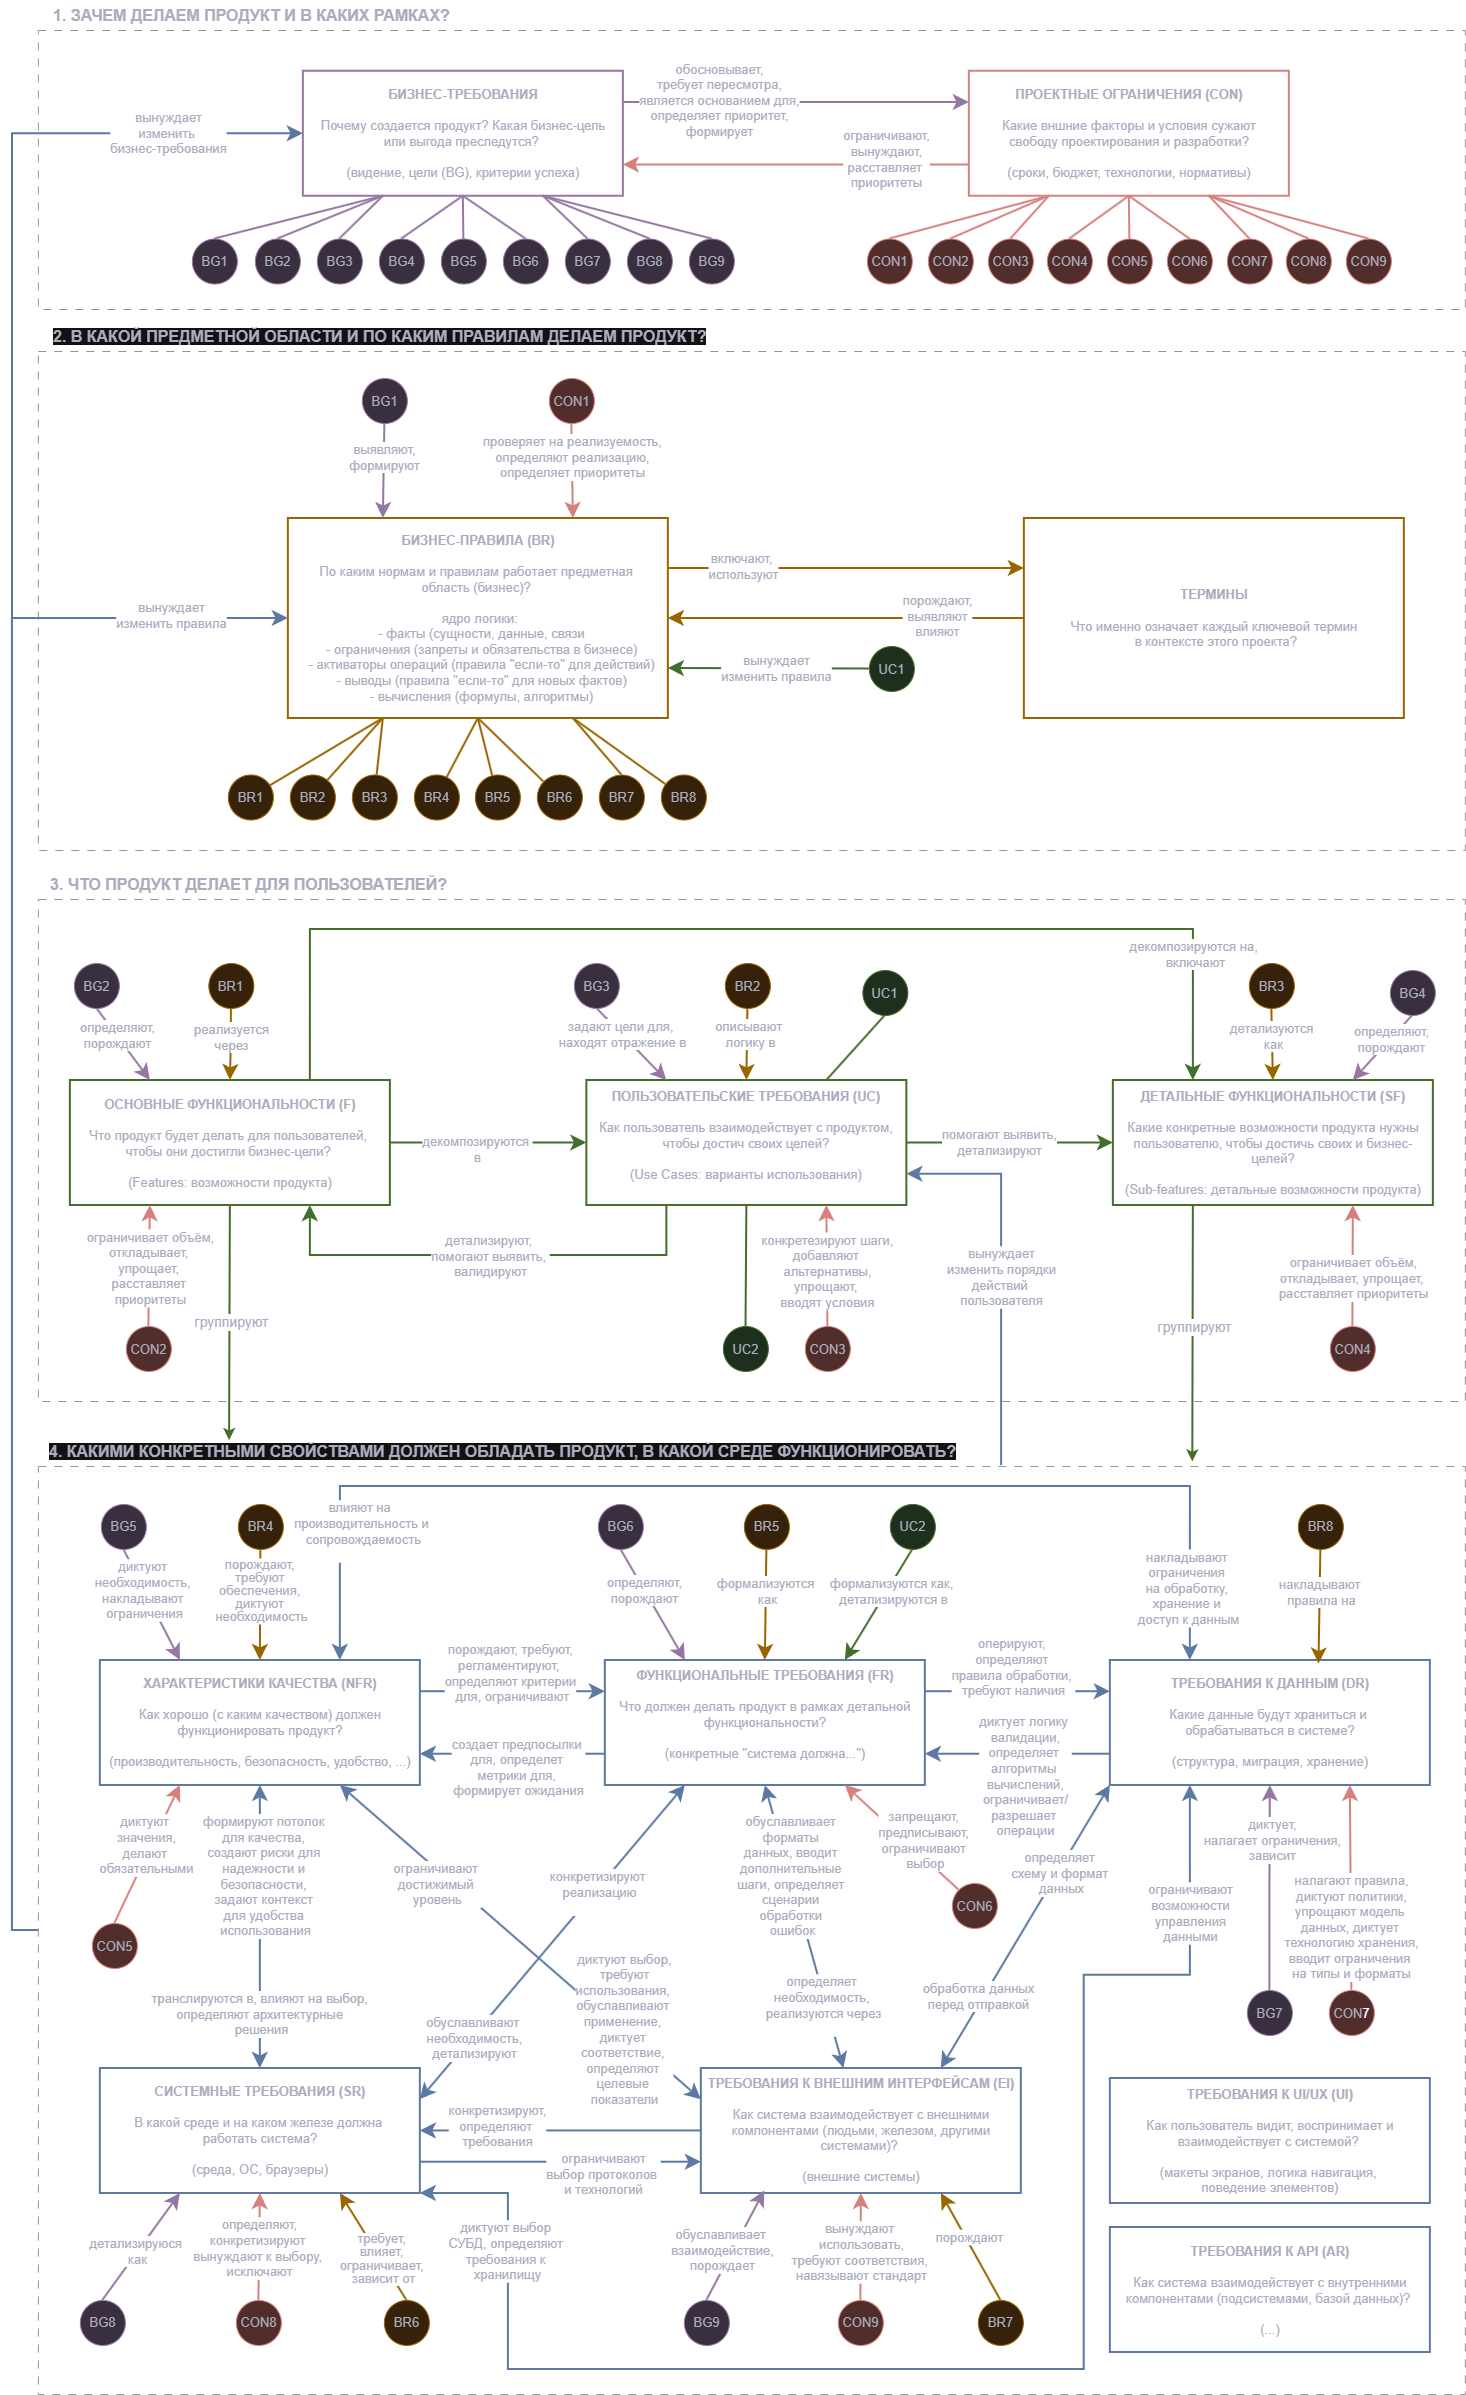
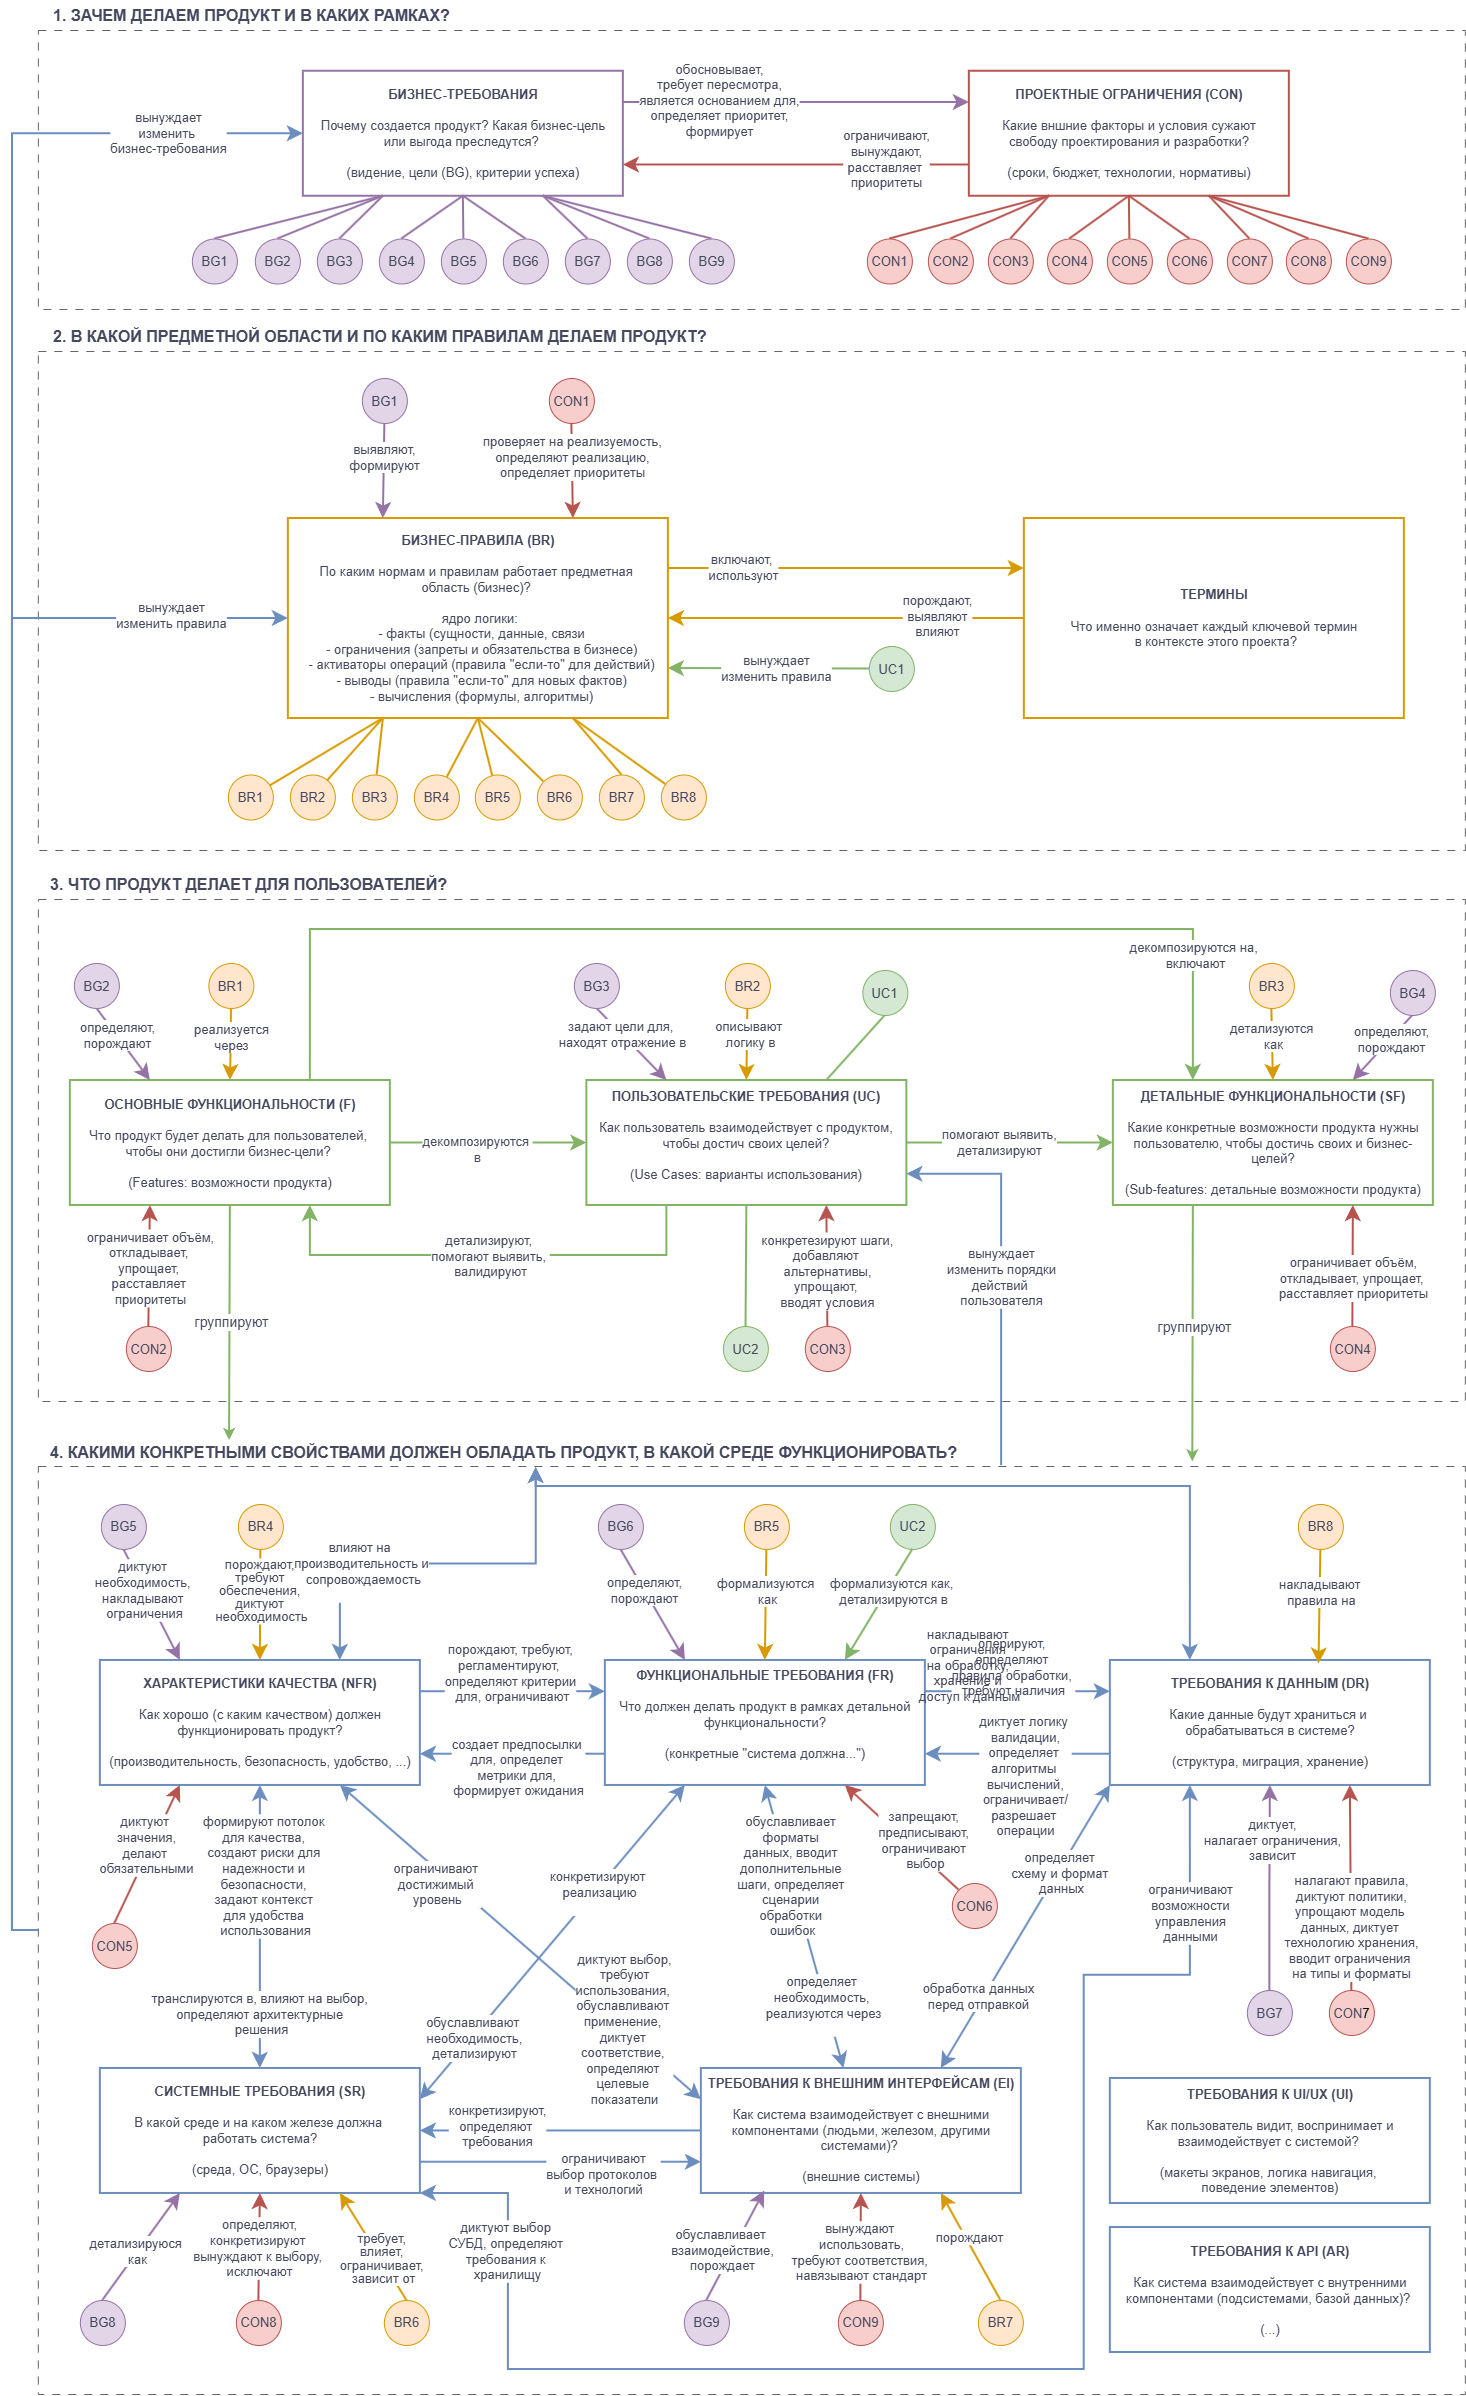
Доработка

diff --git a/docs/methodology/relationships-requirements.md b/docs/methodology/relationships-requirements.md
@@ -1,5 +1,3 @@
 # Взаимосвязь требований к ПО {#relationships-requirements}
 
 ![alt text](<Схема требований к ПО.png>)
-
-![alt text](<Схема требований к ПО_v 0.22-Общая схема требований.png>)
